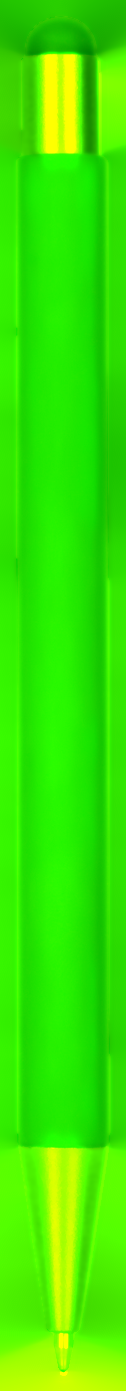
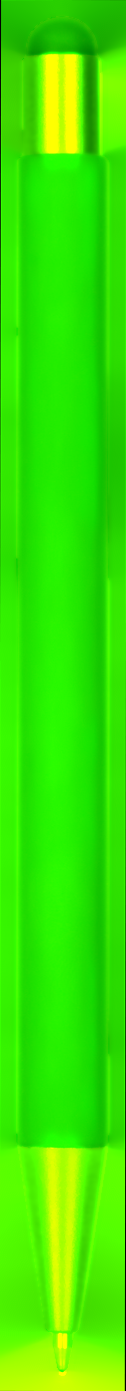
Lodret positur rettet op, cache-busting på lag

diff --git a/public/index.html b/public/index.html
@@ -331,13 +331,13 @@ const SRC=1600;
 
 const POSES={
   vert:{
-    axis:{cx:798.769,cy:757.719,dx:-0.0016657,dy:-0.9999986},
+    axis:{cx:798.769,cy:757.719,dx:0,dy:-1},
     penT:[-735.28,636.73], barrelT:[-496.31,497.72],
     pxAlong:9.8001, pxAcross:9.7923,
     crop:[737,107,127,1401],
-    portrait:{x:547.3,y:72.9,w:604.7,h:1511.7}, contact:[802.0,1491.0],
+    portrait:{x:547.3,y:72.9,w:604.7,h:1511.7}, contact:[800.8,1491.0],
     logoT:295.2, logoH:4.3, shadowGain:0.10,
-    files:['pen_v1.png','pen_v2.png','pen_v3.png']
+    files:['pen_v1.png?v=3','pen_v2.png?v=3','pen_v3.png?v=3']
   },
   diag:{
     axis:{cx:845.200,cy:787.779,dx:0.4411512,dy:-0.8974328},
@@ -346,7 +346,7 @@ const POSES={
     crop:[520,211,639,1225],
     portrait:{x:403.1,y:180.5,w:781.0,h:1327.0}, contact:[553.7,1420.0],
     logoT:330.4, logoH:4.2, shadowGain:0.30,
-    files:['pen_d1.png','pen_d2.png','pen_d3.png']
+    files:['pen_d1.png?v=3','pen_d2.png?v=3','pen_d3.png?v=3']
   }
 };
 const ZONE1={along:50,across:6}, ALLOVER={along:106};

diff --git a/tools/refine_layers.py b/tools/refine_layers.py
@@ -22,7 +22,7 @@ from PIL import Image
 F=np.float32
 
 POSES={
- 'v':dict(c=(798.769,757.719),d=(-0.0016657,-0.9999986),crop=(737,107),barrelT=(-496.31,497.72)),
+ 'v':dict(c=(798.769,757.719),d=(0.0,-1.0),crop=(737,107),barrelT=(-496.31,497.72)),
  'd':dict(c=(845.200,787.779),d=(0.4411512,-0.8974328),crop=(520,211),barrelT=(-492.41,484.37)),
 }
 
@@ -51,6 +51,9 @@ def refine(folder, tag, P):
             sd=max(np.std(r[m]),0.3); m=np.abs(r)<2.5*sd
         return p
     pl,ph=robust_line(T,lo),robust_line(T,hi)
+    # a barrel is a cylinder: both sides share one direction
+    m=(pl[0]+ph[0])/2; tm=T.mean()
+    pl=np.array([m,np.polyval(pl,tm)-m*tm]); ph=np.array([m,np.polyval(ph,tm)-m*tm])
     LO=np.polyval(pl,t); HI=np.polyval(ph,t)
     # pick the offset that keeps the barrel's area exactly as photographed
     ref=cov[win&(np.abs(n-(LO+HI)/2)<(HI-LO)/2+6)].sum()
@@ -94,12 +97,13 @@ def refine(folder, tag, P):
     s2=s2*damp
 
     # ---- 3. smooth along the axis -------------------------------------------
-    sig=8.0; r=int(3*sig)
+    sig=14.0; r=int(3*sig)
     yy,xx=np.mgrid[-r:r+1,-r:r+1].astype(F)
     a=xx*dx+yy*dy; b=xx*nx+yy*ny
     K=np.exp(-(a*a)/(2*sig*sig)-(b*b)/(2*0.5*0.5)); K=(K/K.sum()).astype(F)
-    core=(win&(dist>2.5)).astype(F)
-    core=cv2.GaussianBlur(core,(0,0),1.5)*(win&(dist>1.5))
+    # the rim is included: its tone still follows the old pixel-stepped edge,
+    # and along a now straight edge neighbours at the same depth are equivalent
+    core=((win&(dist>-2)).astype(F))*fe
     def along(x):
         num=cv2.filter2D(x*core,-1,K,borderType=cv2.BORDER_REPLICATE)
         den=cv2.filter2D(core,-1,K,borderType=cv2.BORDER_REPLICATE)
